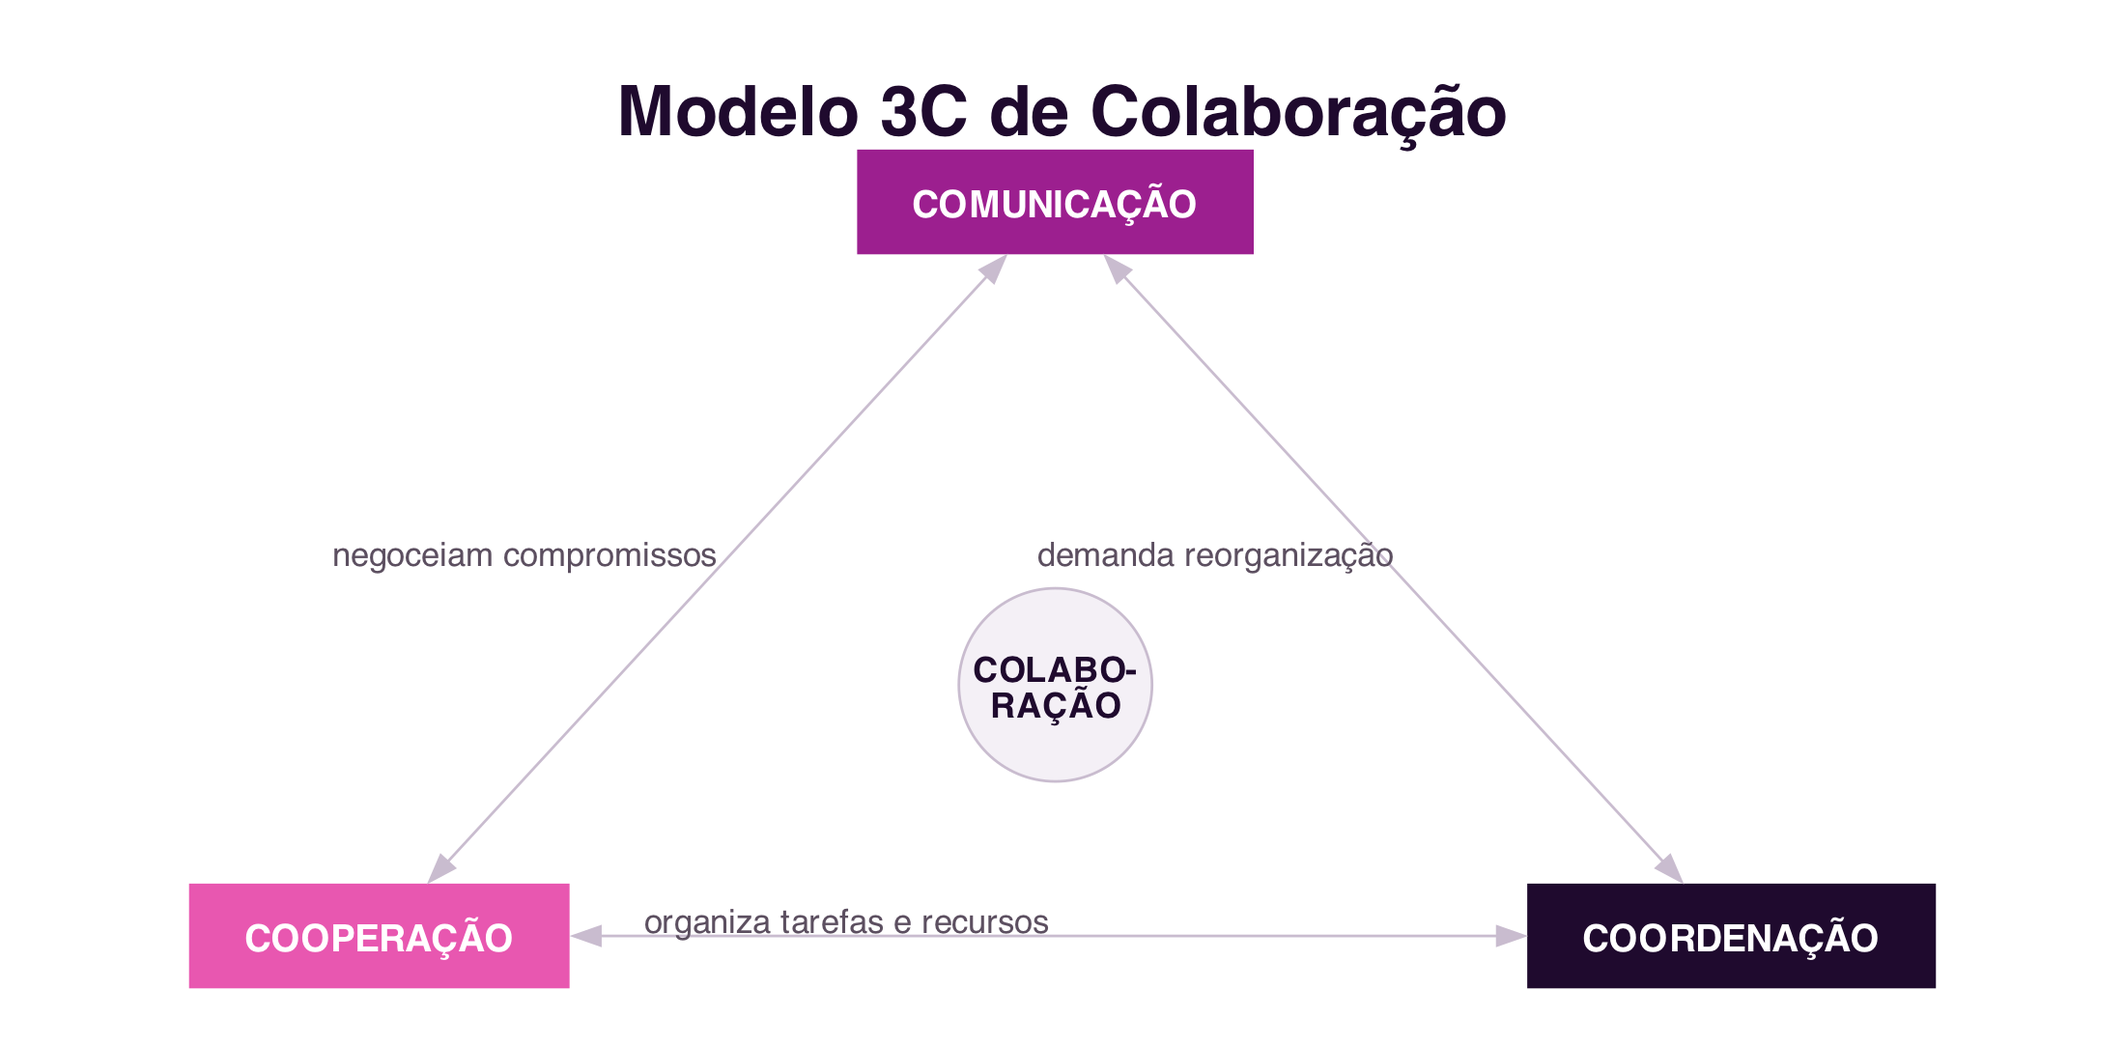
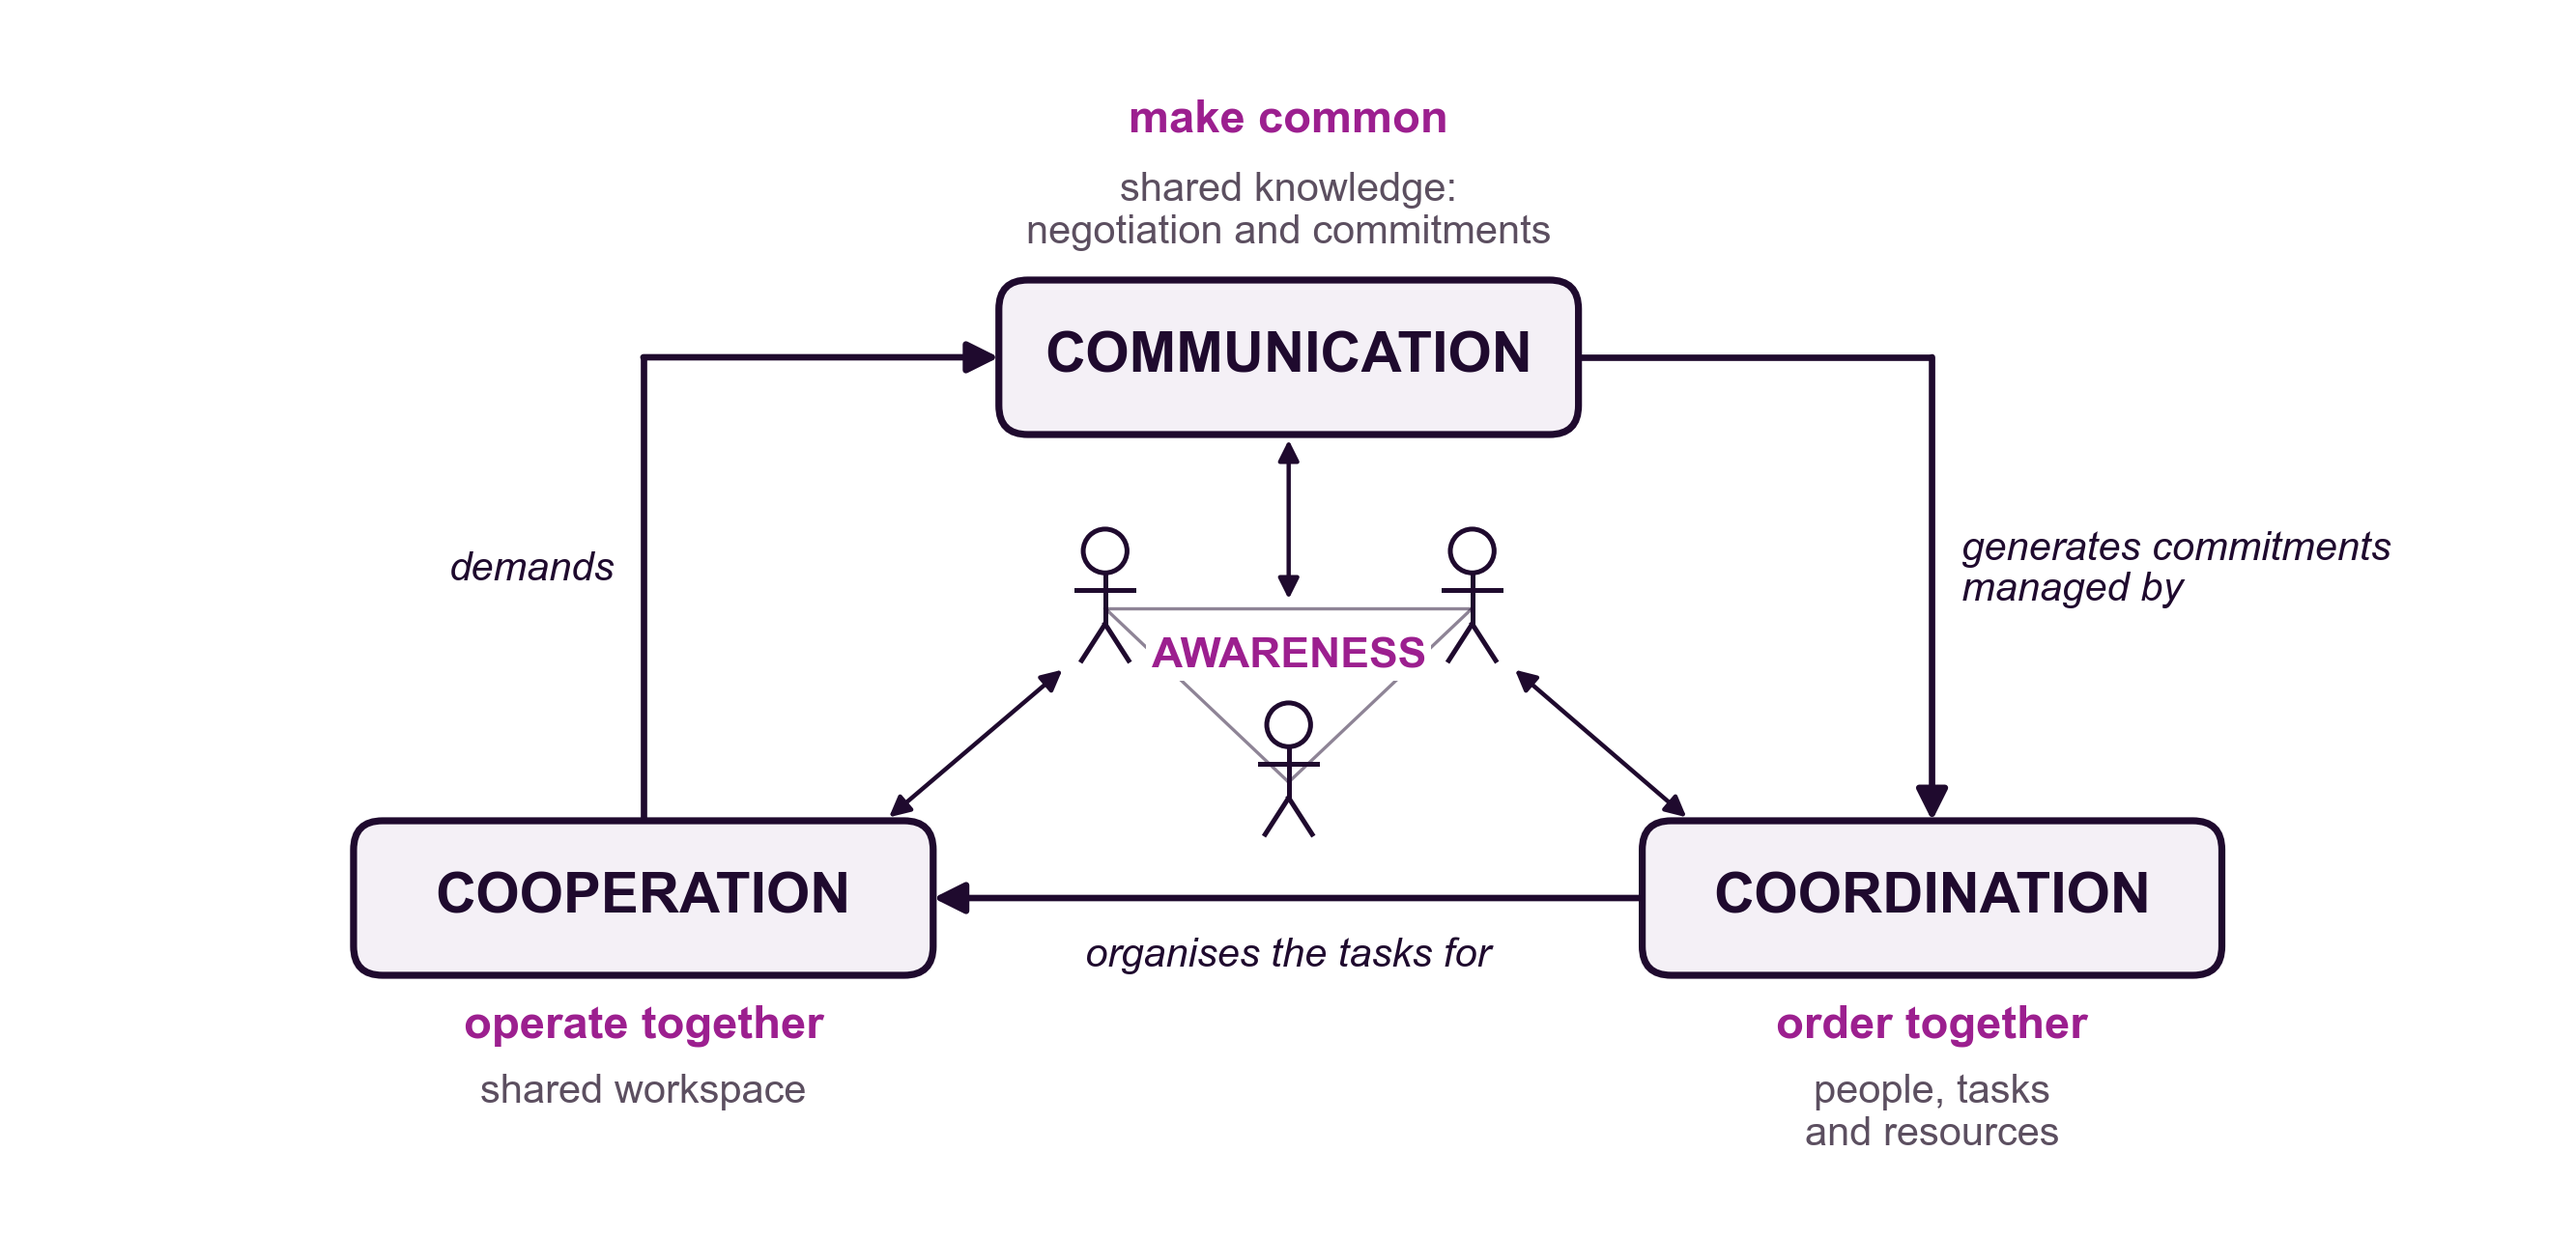
Cap04: Modelo 3C como ciclo com a perceção ao centro, adaptado de Fuks et al. (2011) (PT e EN)

diff --git a/docs/capitulos/cap04.html b/docs/capitulos/cap04.html
@@ -432,14 +432,14 @@ Figura&nbsp;4.5: O Modelo de Atividade aplicado à organização de uma viagem d
 <li><strong>Coordenação</strong>: a gestão de pessoas, atividades e recursos, para que o trabalho de vários participantes se articule sem conflitos nem desperdício de esforço.</li>
 <li><strong>Cooperação</strong>: a atuação conjunta no espaço de trabalho partilhado, para a produção efetiva de objetos ou informação.</li>
 </ul>
-<p>Estas três dimensões não são independentes: inter-relacionam-se para que a colaboração aconteça (<a href="#fig-04-3c" class="quarto-xref">Figura&nbsp;<span>4.6</span></a>). Ao comunicar, os participantes tomam decisões que exigem coordenação; ao coordenar, reorganizam tarefas que podem exigir nova comunicação; e a cooperação efetiva no espaço partilhado gera informação que realimenta tanto a coordenação como a comunicação.</p>
+<p>Estas três dimensões não são independentes: formam um ciclo (<a href="#fig-04-3c" class="quarto-xref">Figura&nbsp;<span>4.6</span></a>). Ao comunicar, os participantes negoceiam e assumem compromissos, que são geridos pela coordenação; a coordenação organiza as tarefas para a cooperação; e os imprevistos que surgem durante a cooperação exigem nova comunicação, que por sua vez exige coordenação para reorganizar as tarefas. Ao centro do modelo está a <strong>perceção</strong>: é através dela que cada participante tem retorno das suas próprias ações e conhece as ações dos colegas <span class="citation" data-cites="FuksEtAl2011">(<a href="cap01.html#ref-FuksEtAl2011" role="doc-biblioref">Fuks et al. 2011</a>)</span>.</p>
 <div id="fig-04-3c" class="quarto-float quarto-figure quarto-figure-center anchored">
 <figure class="quarto-float quarto-float-fig figure">
 <div aria-describedby="fig-04-3c-caption-0ceaefa1-69ba-4598-a22c-09a6ac19f8ca">
 <img src="../assets/images/cap04/modelo-3c.png" class="img-fluid figure-img">
 </div>
 <figcaption class="quarto-float-caption-bottom quarto-float-caption quarto-float-fig" id="fig-04-3c-caption-0ceaefa1-69ba-4598-a22c-09a6ac19f8ca">
-Figura&nbsp;4.6: O Modelo 3C de Colaboração: comunicação, coordenação e cooperação inter-relacionam-se para que o trabalho em grupo aconteça.
+Figura&nbsp;4.6: O Modelo 3C de Colaboração: a comunicação gera compromissos geridos pela coordenação, que organiza as tarefas para a cooperação, a qual exige nova comunicação; ao centro, a perceção liga os participantes às três dimensões (adaptado de <span class="citation" data-cites="FuksEtAl2011">Fuks et al. (<a href="cap01.html#ref-FuksEtAl2011" role="doc-biblioref">2011</a>)</span>).
 </figcaption>
 </figure>
 </div>

diff --git a/docs/en/capitulos/cap04.html b/docs/en/capitulos/cap04.html
@@ -433,14 +433,14 @@ Figure&nbsp;4.5: The Activity Model applied to organising a final-year trip: eac
 <li><strong>Coordination</strong>: the management of people, activities and resources, so that the work of several participants fits together without conflict or wasted effort.</li>
 <li><strong>Cooperation</strong>: joint action within the shared workspace, for the actual production of objects or information.</li>
 </ul>
-<p>These three dimensions are not independent: they interrelate so that collaboration can happen (<a href="#fig-04-3c-en" class="quarto-xref">Figure&nbsp;<span>4.6</span></a>). By communicating, participants make decisions that require coordination; by coordinating, they reorganise tasks that may require new communication; and effective cooperation in the shared space generates information that feeds back into both coordination and communication.</p>
+<p>These three dimensions are not independent: they form a cycle (<a href="#fig-04-3c-en" class="quarto-xref">Figure&nbsp;<span>4.6</span></a>). By communicating, participants negotiate and make commitments, which are managed by coordination; coordination organises the tasks for cooperation; and the unforeseen situations that arise during cooperation demand new communication, which in turn demands coordination to reorganise the tasks. At the centre of the model is <strong>awareness</strong>: it is through awareness that each participant gets feedback on their own actions and learns about the actions of their colleagues <span class="citation" data-cites="FuksEtAl2011">(<a href="cap01.html#ref-FuksEtAl2011" role="doc-biblioref">Fuks et al. 2011</a>)</span>.</p>
 <div id="fig-04-3c-en" class="quarto-float quarto-figure quarto-figure-center anchored">
 <figure class="quarto-float quarto-float-fig figure">
 <div aria-describedby="fig-04-3c-en-caption-0ceaefa1-69ba-4598-a22c-09a6ac19f8ca">
 <img src="../assets/images/cap04/modelo-3c.png" class="img-fluid figure-img">
 </div>
 <figcaption class="quarto-float-caption-bottom quarto-float-caption quarto-float-fig" id="fig-04-3c-en-caption-0ceaefa1-69ba-4598-a22c-09a6ac19f8ca">
-Figure&nbsp;4.6: The 3C Collaboration Model: communication, coordination and cooperation interrelate so that group work can happen.
+Figure&nbsp;4.6: The 3C Collaboration Model: communication generates commitments managed by coordination, which organises the tasks for cooperation, which in turn demands new communication; at the centre, awareness connects the participants to the three dimensions (adapted from <span class="citation" data-cites="FuksEtAl2011">Fuks et al. (<a href="cap01.html#ref-FuksEtAl2011" role="doc-biblioref">2011</a>)</span>).
 </figcaption>
 </figure>
 </div>
